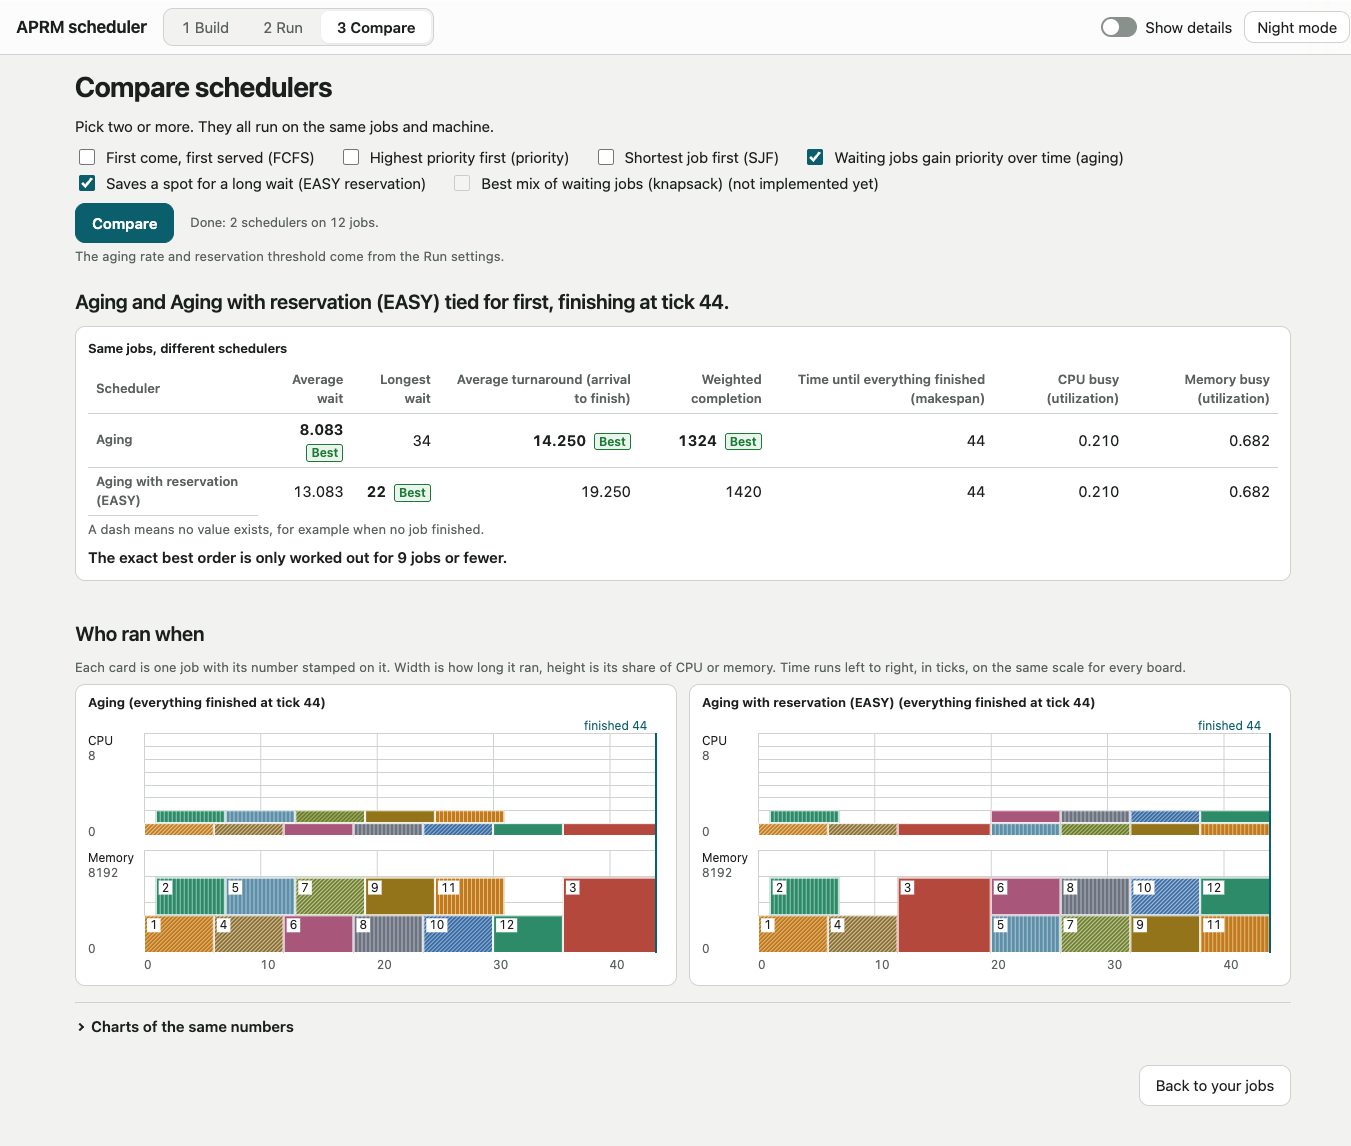
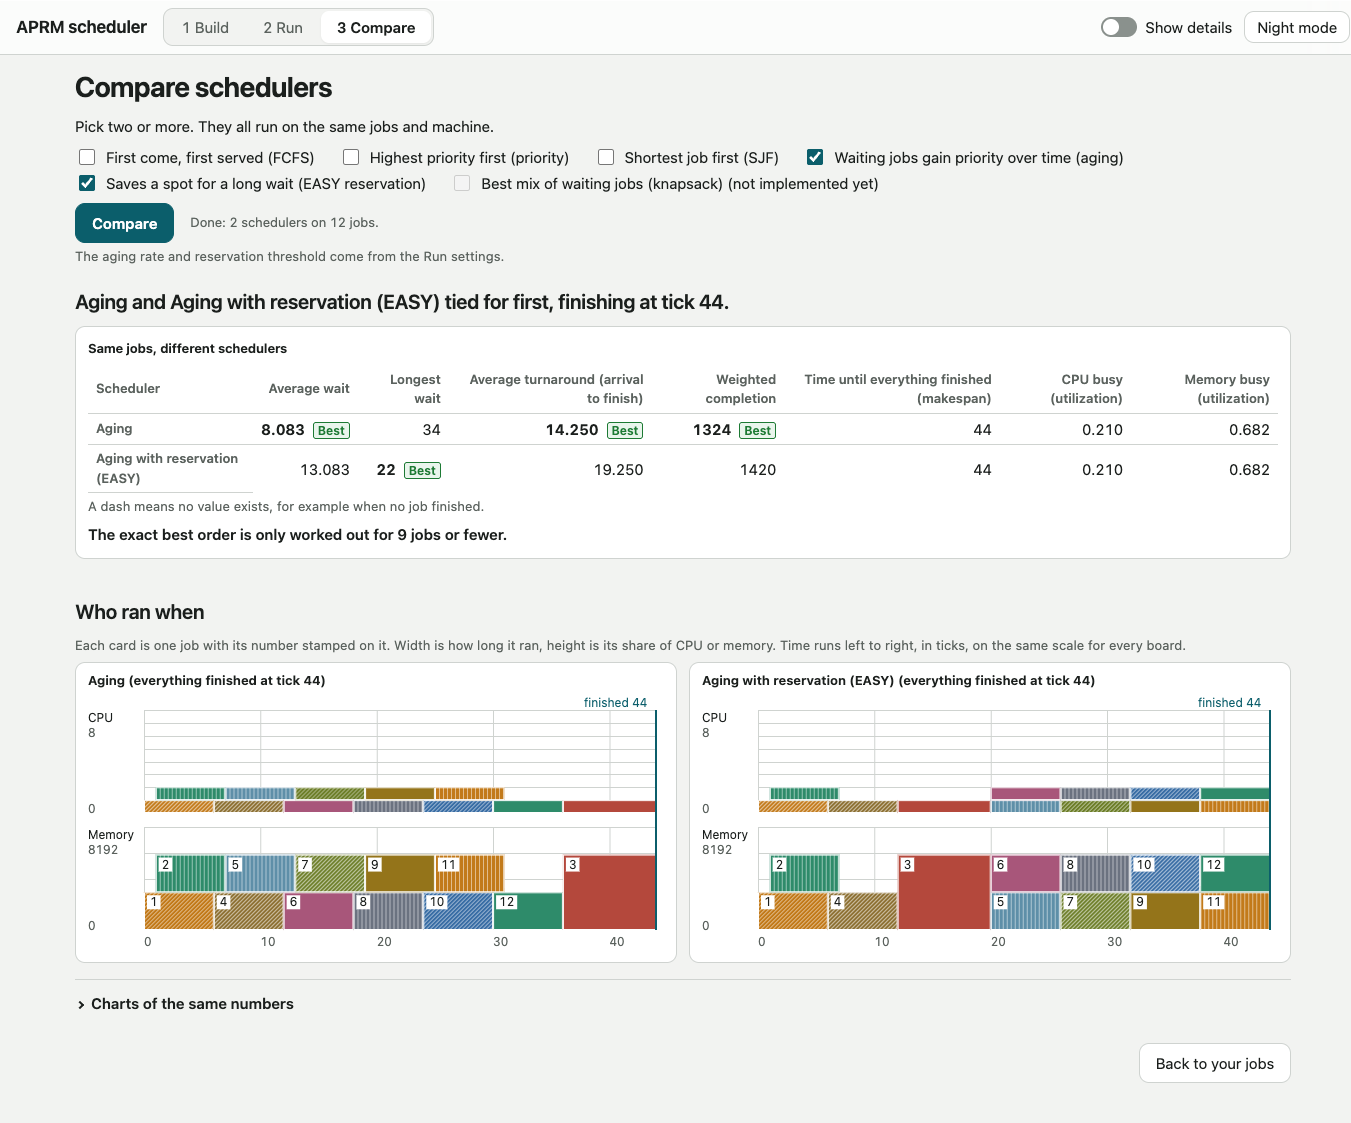
Compare table: keep Best on the number's line

diff --git a/web/css/components.css b/web/css/components.css
@@ -193,9 +193,11 @@ td.best::after { content: attr(data-best); display: inline-block; margin-left: v
   .job-table.compare-table tbody th { display: block; padding: 0 0 var(--s-1); border: 0; font-size: var(--fs-body); color: var(--text); }
   .job-table.compare-table td { display: flex; justify-content: space-between; gap: var(--s-3); text-align: right; padding: 2px 0; }
   .job-table.compare-table td::before { content: attr(data-label); color: var(--muted); font-size: var(--fs-caption); text-align: left; margin: 0; }
-  .job-table.compare-table td.best { flex-wrap: wrap; }
+  .job-table.compare-table td { justify-content: flex-end; white-space: normal; }
+  .job-table.compare-table td::before { margin-right: auto; }
 }
 .job-table.compare-table td, .job-table.compare-table thead th + th { text-align: right; }
+.job-table.compare-table td { white-space: nowrap; }
 .compare-fig { background: var(--surface); border: 1px solid var(--border); border-radius: var(--r-2); padding: var(--s-2) var(--s-3); min-width: 0; }
 .compare-fig figcaption { font-size: var(--fs-caption); font-weight: 650; margin-bottom: var(--s-1); }
 
